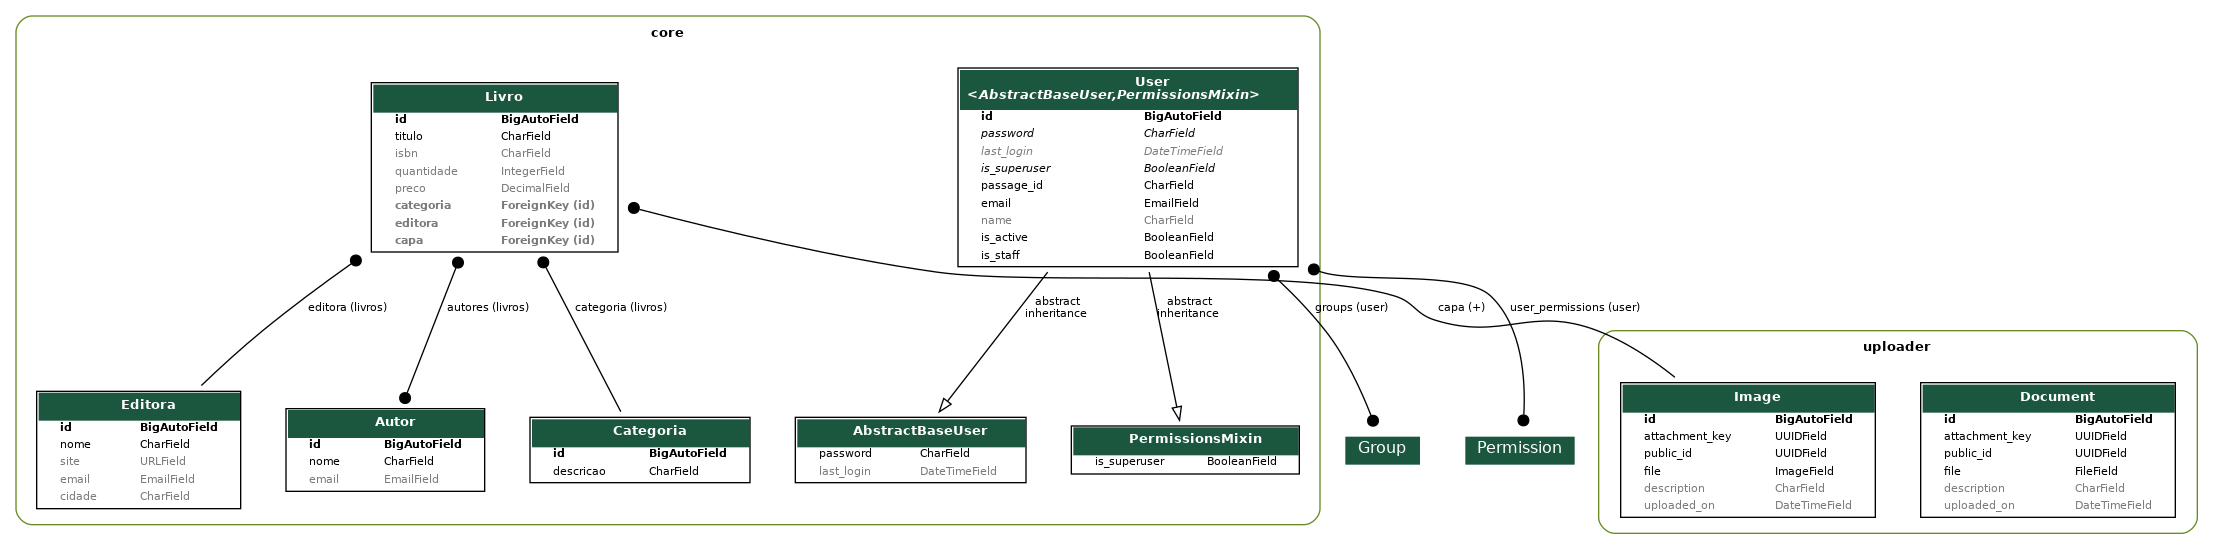
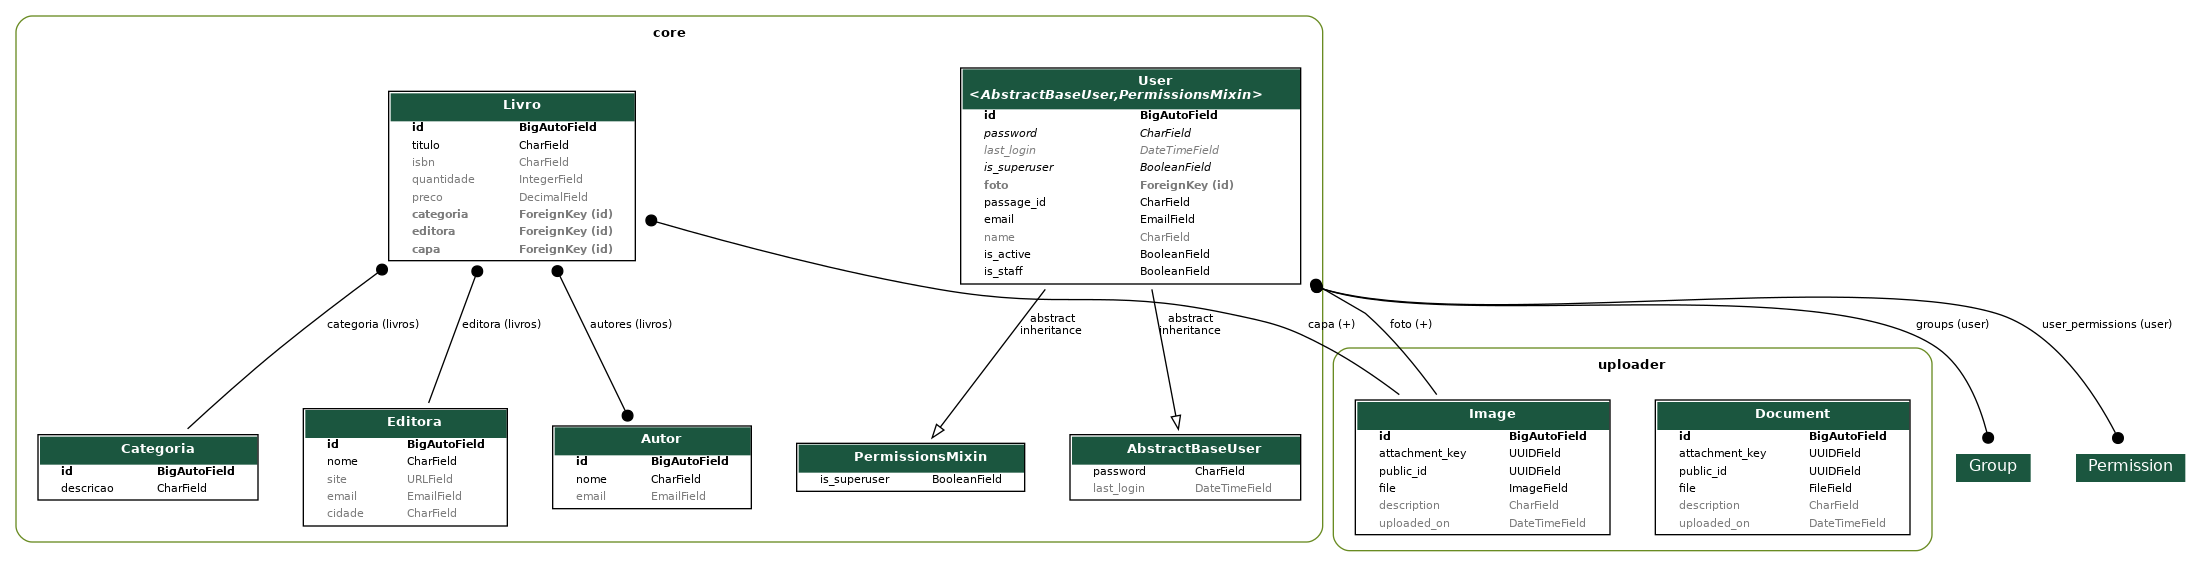
feat: continuar a inclusão de foto no perfil do user

diff --git a/core/models/user.py b/core/models/user.py
@@ -10,6 +10,8 @@ from django.contrib.auth.models import (
 from django.db import models
 from django.utils.translation import gettext_lazy as _
 
+from uploader.models import Image
+
 
 class UserManager(BaseUserManager):
     """Manager for users."""
@@ -19,7 +21,7 @@ class UserManager(BaseUserManager):
     def create_user(self, email, password=None, **extra_fields):
         """Create, save and return a new user."""
         if not email:
-            raise ValueError('Users must have an email address.')
+            raise ValueError("Users must have an email address.")
 
         user = self.model(email=self.normalize_email(email), **extra_fields)
         user.set_password(password)
@@ -40,25 +42,48 @@ class UserManager(BaseUserManager):
 class User(AbstractBaseUser, PermissionsMixin):
     """User model in the system."""
 
-    passage_id = models.CharField(max_length=255, unique=True, verbose_name=_('passage_id'), help_text=_('Passage ID'))
-    email = models.EmailField(max_length=255, unique=True, verbose_name=_('email'), help_text=_('Email'))
-    name = models.CharField(max_length=255, blank=True, null=True, verbose_name=_('name'), help_text=_('Username'))
+    foto = models.ForeignKey(
+        Image,
+        related_name="+",
+        on_delete=models.SET_NULL,
+        null=True,
+        blank=True,
+        default=None,
+    )
+    passage_id = models.CharField(
+        max_length=255,
+        unique=True,
+        verbose_name=_("passage_id"),
+        help_text=_("Passage ID"),
+    )
+    email = models.EmailField(
+        max_length=255, unique=True, verbose_name=_("email"), help_text=_("Email")
+    )
+    name = models.CharField(
+        max_length=255,
+        blank=True,
+        null=True,
+        verbose_name=_("name"),
+        help_text=_("Username"),
+    )
     is_active = models.BooleanField(
-        default=True, verbose_name=_('Usuário está ativo'), help_text=_('Indica que este usuário está ativo.')
+        default=True,
+        verbose_name=_("Usuário está ativo"),
+        help_text=_("Indica que este usuário está ativo."),
     )
     is_staff = models.BooleanField(
         default=False,
-        verbose_name=_('Usuário é da equipe'),
-        help_text=_('Indica que este usuário pode acessar o Admin.'),
+        verbose_name=_("Usuário é da equipe"),
+        help_text=_("Indica que este usuário pode acessar o Admin."),
     )
 
     objects = UserManager()
 
-    USERNAME_FIELD = 'email'
+    USERNAME_FIELD = "email"
     REQUIRED_FIELDS = []
 
     class Meta:
         """Meta options for the model."""
 
-        verbose_name = 'Usuário'
-        verbose_name_plural = 'Usuários'
+        verbose_name = "Usuário"
+        verbose_name_plural = "Usuários"

diff --git a/core/admin.py b/core/admin.py
@@ -9,7 +9,11 @@ from django.utils.translation import gettext_lazy as _
 from core import models
 from core.models import Autor, Categoria, Editora, Livro, User
 
+@admin.register(User)
 class UserAdmin(BaseUserAdmin):
+
+    (_("Personal Info"), {"fields": ("name","foto")}), #Para incluir foto
+    
     """Define the admin pages for users."""
 
     ordering = ['id']
@@ -38,7 +42,8 @@ class UserAdmin(BaseUserAdmin):
             {
                 'classes': ('wide',),
                 'fields': (
-                    'email',
+                    @admin.register(User)
+class UserAdmin(BaseUserAdmin):'email',
                     'password1',
                     'password2',
                     'name',
@@ -49,8 +54,6 @@ class UserAdmin(BaseUserAdmin):
             },
         ),
     )
-
-admin.site.register(User, UserAdmin)
 
 @admin.register(Autor)
 class AutorAdmin(admin.ModelAdmin):

diff --git a/core/migrations/0014_user_foto.py b/core/migrations/0014_user_foto.py
@@ -1,0 +1,20 @@
+# Generated by Django 5.2.1 on 2025-06-03 11:54
+
+import django.db.models.deletion
+from django.db import migrations, models
+
+
+class Migration(migrations.Migration):
+
+    dependencies = [
+        ('core', '0013_editora_cidade_editora_email'),
+        ('uploader', '0001_initial'),
+    ]
+
+    operations = [
+        migrations.AddField(
+            model_name='user',
+            name='foto',
+            field=models.ForeignKey(blank=True, default=None, null=True, on_delete=django.db.models.deletion.SET_NULL, related_name='+', to='uploader.image'),
+        ),
+    ]
